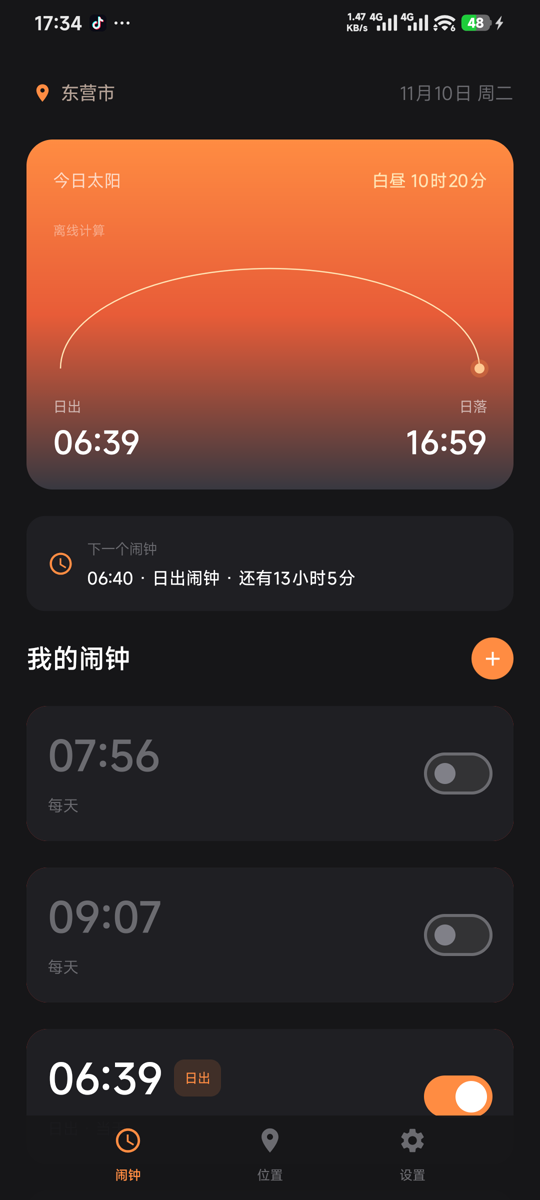
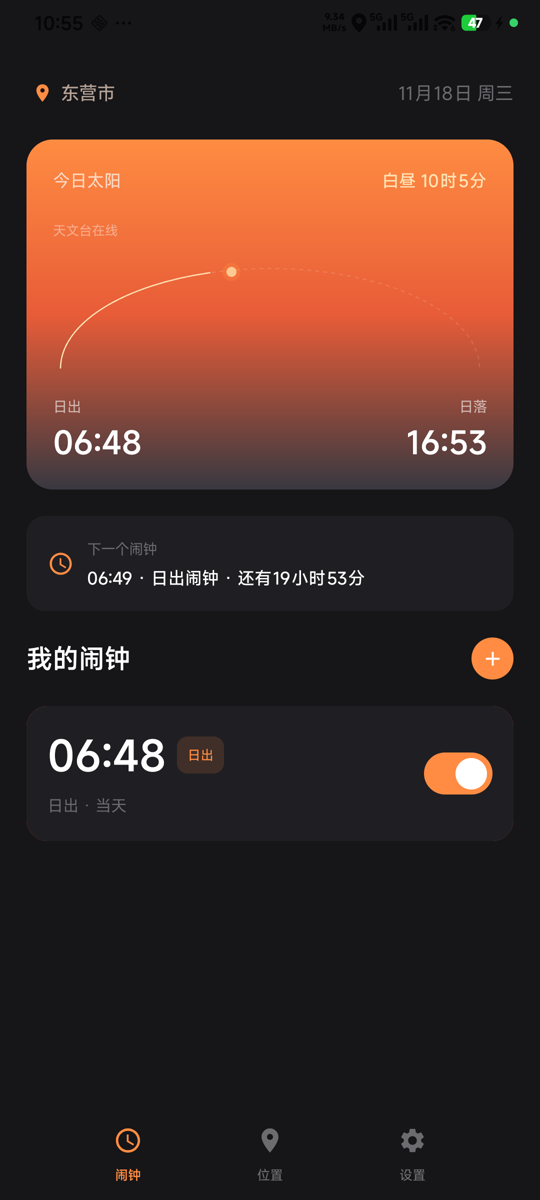
README 配图换成真机重截的四张：首页、新建闹钟、设置（外观展开）、英文首页

diff --git a/README.md b/README.md
@@ -9,9 +9,9 @@
 
 两个平台的包名同为 `com.sunrise.alarm`，界面、文案、颜色、版本号都对齐。
 
-| 首页 | 新建闹钟（循环滚轮选时） |
-|:---:|:---:|
-| ![首页](docs/screenshots/home-dark.png) | ![新建闹钟](docs/screenshots/add-alarm.png) |
+| 首页 | 新建闹钟（循环滚轮选时） | 设置 | English |
+|:---:|:---:|:---:|:---:|
+| ![首页](docs/screenshots/home-dark.png) | ![新建闹钟](docs/screenshots/add-alarm.png) | ![设置](docs/screenshots/settings.png) | ![English](docs/screenshots/home-en.png) |
 
 以下为 **Android 版**文档。
 
